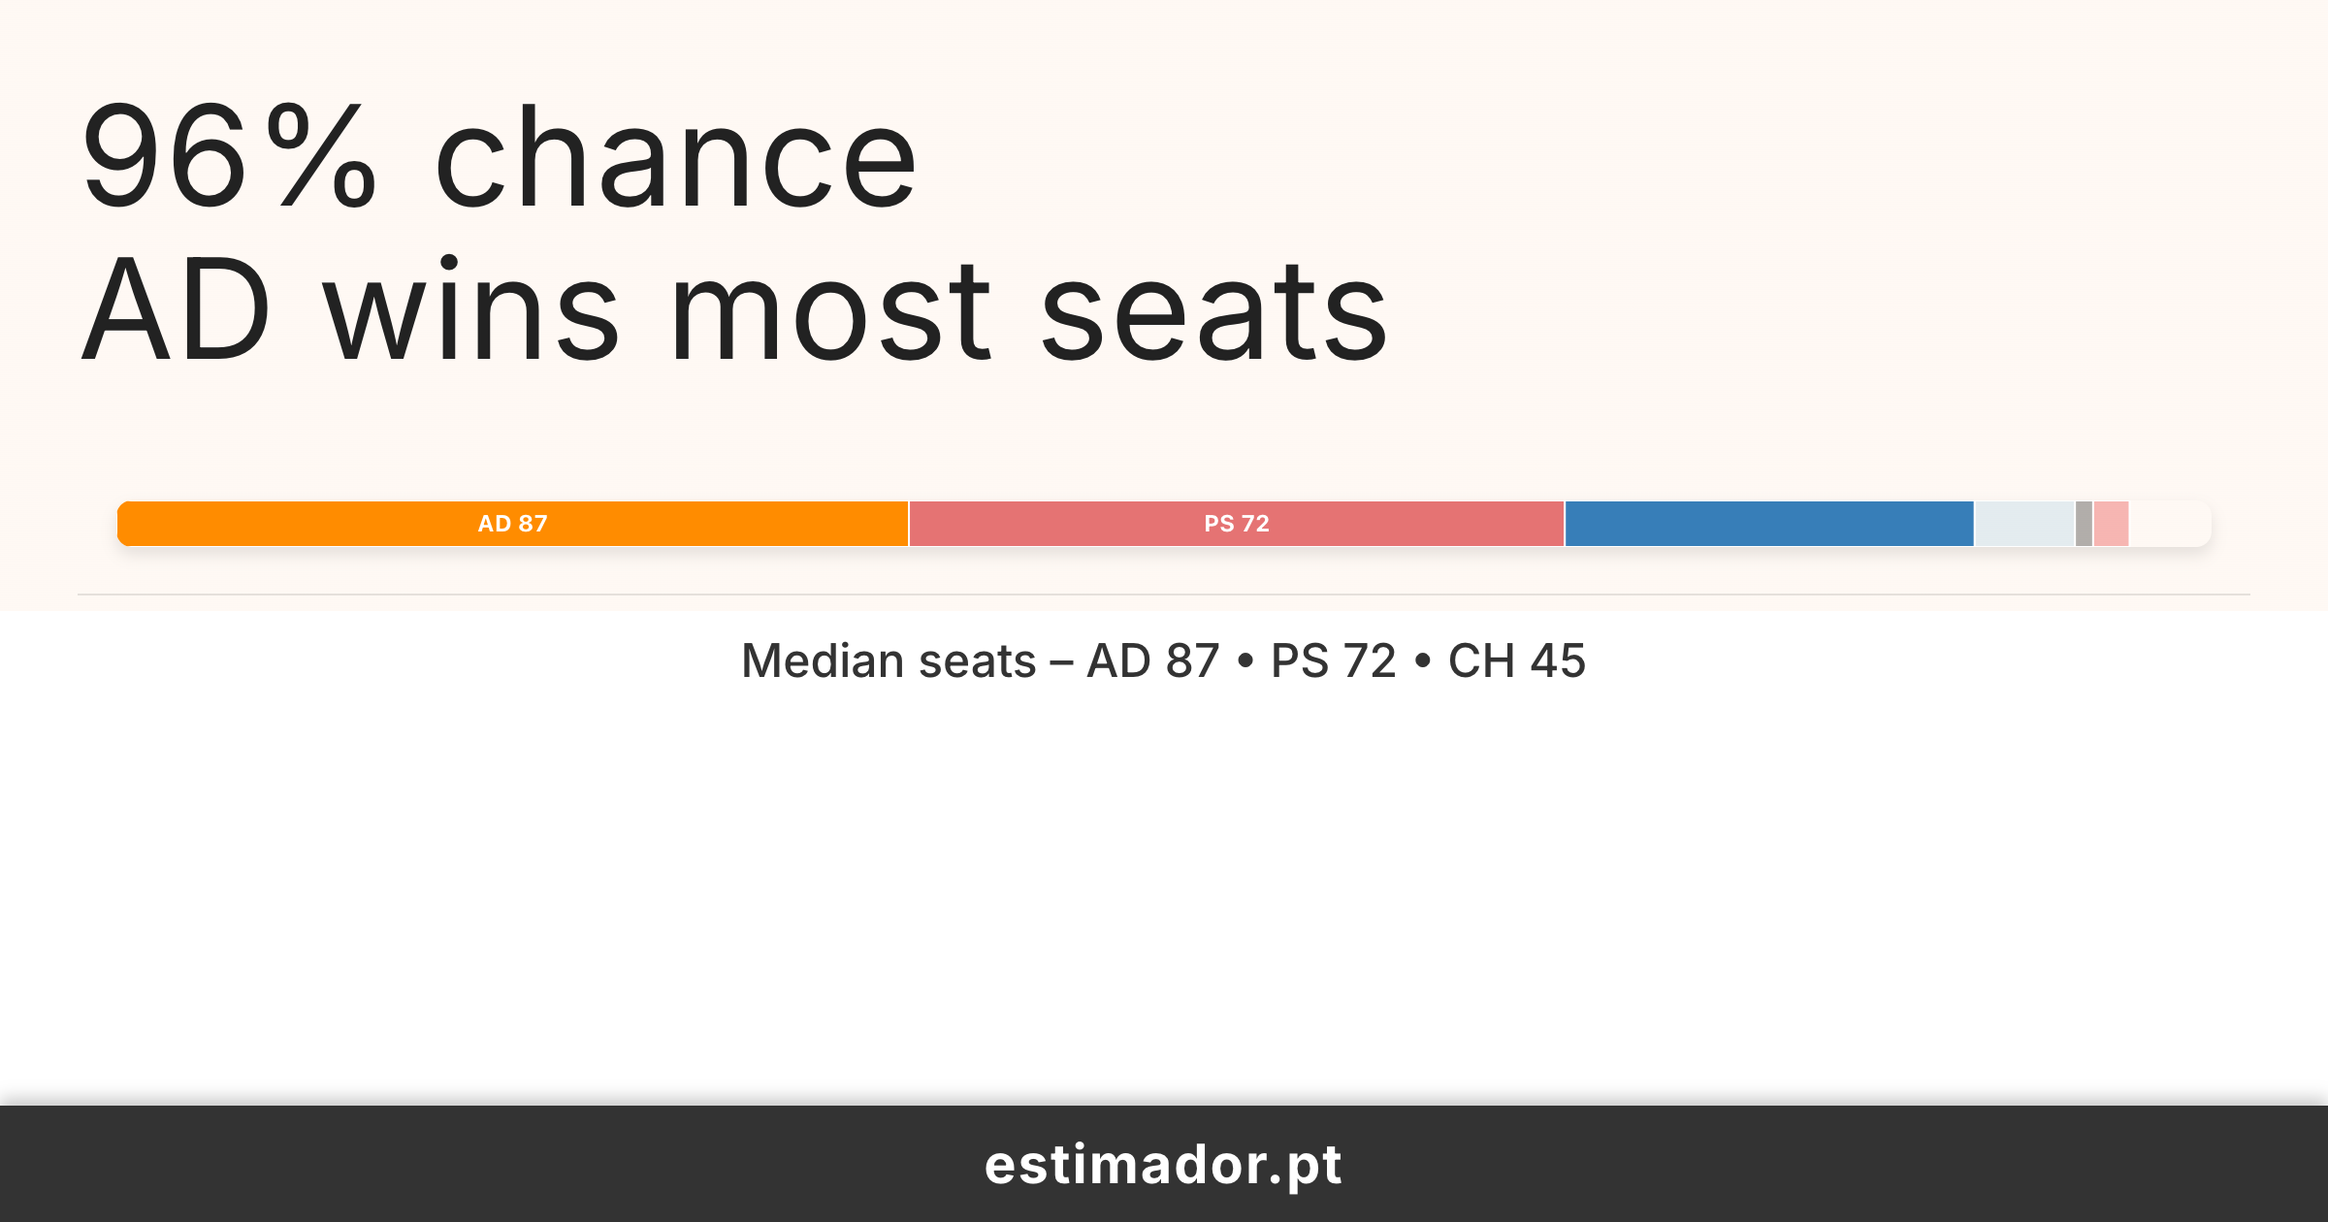
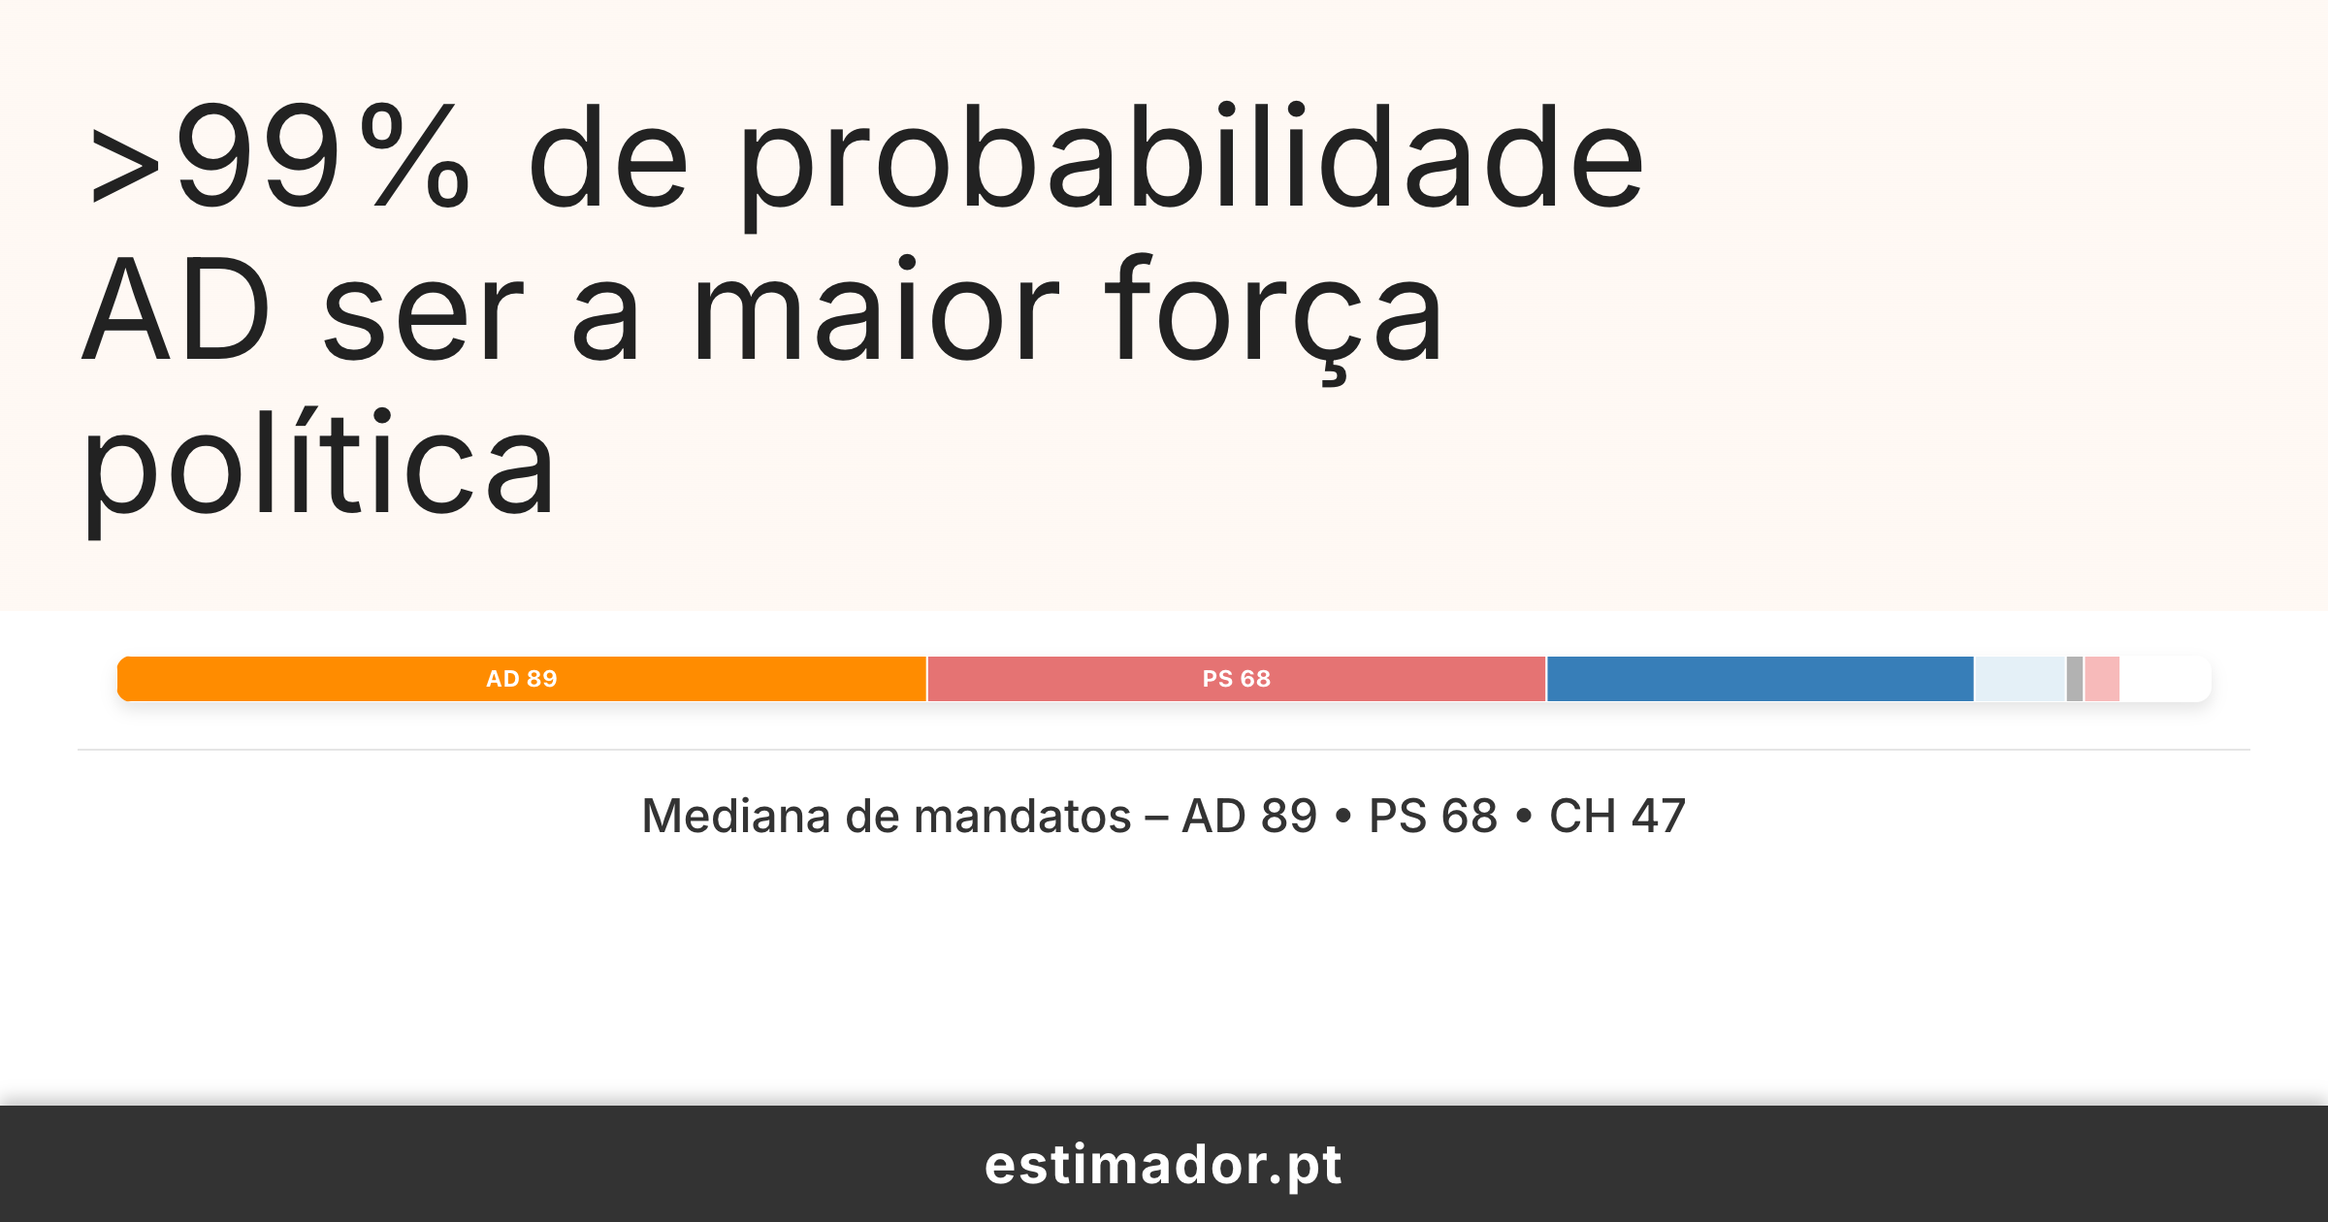
Update Open Graph image generation and localization support
- Modified the capture-og script to include Portuguese query parameters for improved language handling.
- Enhanced the OG page with dynamic language detection and localized strings for better user experience.
- Updated the methodology section in index.md to utilize a helper function for rendering raw HTML.
- Revised localization files for English and Portuguese to include new OG image specific strings.
- Updated the OG footer and subtitle formatting to reflect localized content.

diff --git a/src/locales/pt.js b/src/locales/pt.js
@@ -1,19 +1,19 @@
 export const T = {
     // Page Title
-    title: "Modelo de Previsão Eleitoral Português",
+    title: "Modelo de projeção de resultados das Eleições Legislativas",
   
     // Hero Banner Probabilities
-    heroLeftMajorityProb: "Prob. Maioria Esquerda",
+    heroLeftMajorityProb: "Prob. Maioria de Esquerda",
     heroLeftMajorityCondition: "(PS+BE+CDU+L ≥ 116)",
-    heroRightMajorityProb: "Prob. Maioria Direita",
+    heroRightMajorityProb: "Prob. Maioria de Direita (sem CH)",
     heroRightMajorityCondition: "(AD+IL ≥ 116)",
-    heroNoMajorityProb: "Prob. Sem Maioria de Bloco",
+    heroNoMajorityProb: "Prob. de não haver maioria",
     heroNoMajorityCondition: "(Nenhum bloco ≥ 116)",
-    heroAdMostSeatsProb: "Prob. AD Mais Deputados",
+    heroAdMostSeatsProb: "Prob. AD ser a maior força",
     heroAdMostSeatsCondition: "(AD > PS e AD > CH)",
-    heroPsMostSeatsProb: "Prob. PS Mais Deputados",
+    heroPsMostSeatsProb: "Prob. PS ser a maior força",
     heroPsMostSeatsCondition: "(PS > AD e PS > CH)",
-    heroChMostSeatsProb: "Prob. CH Mais Deputados",
+    heroChMostSeatsProb: "Prob. CH ser a maior força",
     heroChMostSeatsCondition: "(CH > AD e CH > PS)",
   
     // Methodology Section
@@ -204,8 +204,15 @@ export const T = {
     heatstripLegendMax: "50% Virar",
 
     // Contested Heatmap
-    heatmapNoContestedData: "Não existem dados de assentos disputados para o mapa de calor.",
-    heatmapNoSeats: "Nenhum assento encontrado para o mapa de calor após filtragem/ordenação.",
-    heatmapTitle: "Mapa de Calor de Assentos Disputados (Probabilidade de Virar)",
-    heatmapTooltip: "Distrito: {district}, Assento: {rank}, Prob. de Virar: {probability}%"
+    heatmapNoContestedData: "Não existem dados de mandatos disputados para o heatmap.",
+    heatmapNoSeats: "Nenhum mandato disputado encontrado para o heatmap após filtragem/ordenação.",
+    heatmapTitle: "Heatmap de Mandatos Disputados (Probabilidade de Virar)",
+    heatmapTooltip: "Distrito: {district}, Mandato: {rank}, Prob. de Virar: {probability}%",
+
+    // OG Image specific
+    ogHeroStatChance: "% de probabilidade",
+    ogHeroStatCondition: "AD ser a maior força política",
+    ogSubtitlePrefix: "Mediana de mandatos –",
+    ogSubtitlePartySeat: "{party} {seats}", // Party names AD, PS, CH usually not translated here
+    ogFooter: "estimador.pt"
   };

diff --git a/src/locales/en.js b/src/locales/en.js
@@ -207,5 +207,12 @@ export const T = {
   heatmapNoContestedData: "No contested seat data available for heatmap.",
   heatmapNoSeats: "No seats found for heatmap after filtering/sorting.",
   heatmapTitle: "Contested Seats Heatmap (Flip Probability)",
-  heatmapTooltip: "District: {district}, Seat: {rank}, Flip Prob: {probability}%"
+  heatmapTooltip: "District: {district}, Seat: {rank}, Flip Prob: {probability}%",
+
+  // OG Image specific
+  ogHeroStatChance: "% chance",
+  ogHeroStatCondition: "AD wins most seats",
+  ogSubtitlePrefix: "Median seats –",
+  ogSubtitlePartySeat: "{party} {seats}",
+  ogFooter: "estimador.pt"
 }; 

diff --git a/src/index.md b/src/index.md
@@ -13,11 +13,18 @@ import { T as ptStrings } from "./locales/pt.js";
 
 // Language detection logic
 const preferredLang = (() => {
-  if (typeof navigator !== "undefined") {
-    const browserLang = navigator.language.split('-')[0];
-    if (browserLang === 'pt') return 'pt';
+  if (typeof window !== "undefined") { // Ensure window context for URLSearchParams and navigator
+    const params = new URLSearchParams(window.location.search);
+    const langParam = params.get('lang');
+    if (langParam === 'pt' || langParam === 'en') {
+      return langParam;
+    }
+    if (typeof navigator !== "undefined" && navigator.language) {
+      const browserLang = navigator.language.split('-')[0];
+      if (browserLang === 'pt') return 'pt';
+    }
   }
-  return 'en'; // Default to English
+  return 'pt'; // Default to Portuguese
 })();
 
 // Define globally accessible variables for this page context
@@ -168,113 +175,121 @@ console.log("[index.md] Calculated latestTrends:", JSON.stringify(latestTrends))
 // REMOVE State for Methodology visibility
 // let methodologyVisible = false;
 
+// Helper function to treat a string as raw HTML for HTL
+function makeRaw(htmlString) {
+  if (typeof document !== "undefined") {
+    return document.createRange().createContextualFragment(htmlString);
+  }
+  return htmlString; // Fallback for non-browser environments (though unlikely here)
+}
+
 // Placeholder for methodology content (replace with actual markdown/html if available)
 const methodologyContent = html`
     <div class="card p-4"> 
-        <h2>${strings.methodologyTitle}</h2>
-        <p>${strings.methodologyP1}</p>
+        <h2>${makeRaw(strings.methodologyTitle)}</h2>
+        <p>${makeRaw(strings.methodologyP1)}</p>
         
-        <h4>${strings.methodologyH4_1}</h4>
-        <p>${strings.methodologyP2}</p>
-        <p>${strings.methodologyP3}</p>
+        <h4>${makeRaw(strings.methodologyH4_1)}</h4>
+        <p>${makeRaw(strings.methodologyP2)}</p>
+        <p>${makeRaw(strings.methodologyP3)}</p>
         <ol>
-            <li>${strings.methodologyLi1_1}</li>
-            <li>${strings.methodologyLi1_2}</li>
-            <li>${strings.methodologyLi1_3}</li>
-            <li>${strings.methodologyLi1_4}</li>
+            <li>${makeRaw(strings.methodologyLi1_1)}</li>
+            <li>${makeRaw(strings.methodologyLi1_2)}</li>
+            <li>${makeRaw(strings.methodologyLi1_3)}</li>
+            <li>${makeRaw(strings.methodologyLi1_4)}</li>
         </ol>
-        <p>${strings.methodologyP4}</p>
+        <p>${makeRaw(strings.methodologyP4)}</p>
 
-        <h4>${strings.methodologyH4_2}</h4>
-        <p>${strings.methodologyP5}</p>
+        <h4>${makeRaw(strings.methodologyH4_2)}</h4>
+        <p>${makeRaw(strings.methodologyP5)}</p>
         <ol>
-            <li>${strings.methodologyLi2_1}</li>
-            <li>${strings.methodologyLi2_2}</li>
-            <li>${strings.methodologyLi2_3}</li>
-            <li>${strings.methodologyLi2_4}</li>
-            <li>${strings.methodologyLi2_5}</li>
+            <li>${makeRaw(strings.methodologyLi2_1)}</li>
+            <li>${makeRaw(strings.methodologyLi2_2)}</li>
+            <li>${makeRaw(strings.methodologyLi2_3)}</li>
+            <li>${makeRaw(strings.methodologyLi2_4)}</li>
+            <li>${makeRaw(strings.methodologyLi2_5)}</li>
         </ol>
-        <p>${strings.methodologyP6}</p>
-        <p>${strings.methodologyP7}</p>
+        <p>${makeRaw(strings.methodologyP6)}</p>
+        <p>${makeRaw(strings.methodologyP7)}</p>
 
-        <h4>${strings.methodologyH4_3}</h4>
-        <p>${strings.methodologyP8}</p>
+        <h4>${makeRaw(strings.methodologyH4_3)}</h4>
+        <p>${makeRaw(strings.methodologyP8)}</p>
         <ul>
-            <li>${strings.methodologyLi3_1}</li>
-            <li>${strings.methodologyLi3_2}</li>
-            <li>${strings.methodologyLi3_3}</li>
-            <li>${strings.methodologyLi3_4}</li>
-            <li>${strings.methodologyLi3_5}</li>
+            <li>${makeRaw(strings.methodologyLi3_1)}</li>
+            <li>${makeRaw(strings.methodologyLi3_2)}</li>
+            <li>${makeRaw(strings.methodologyLi3_3)}</li>
+            <li>${makeRaw(strings.methodologyLi3_4)}</li>
+            <li>${makeRaw(strings.methodologyLi3_5)}</li>
         </ul>
-        <p>${strings.methodologyP9}</p>
+        <p>${makeRaw(strings.methodologyP9)}</p>
 
-        <h4>${strings.methodologyH4_4}</h4>
-        <h5>${strings.methodologyH5_1}</h5>
-        <p>${strings.methodologyP10}</p>
-        <h5>${strings.methodologyH5_2}</h5>
-        <p>${strings.methodologyP11}</p>
-        <h5>${strings.methodologyH5_3}</h5>
-        <p>${strings.methodologyP12}</p>
-        <p>${strings.methodologyP13}</p>
-        <h5>${strings.methodologyH5_4}</h5>
-        <p>${strings.methodologyP14}</p>
-        <h5>${strings.methodologyH5_5}</h5>
-        <p>${strings.methodologyP15}</p>
-        <p>${strings.methodologyP16}</p>
-        <h5>${strings.methodologyH5_6}</h5>
-        <p>${strings.methodologyP17}</p>
-        <p>${strings.methodologyP18}</p>
-        <p>${strings.methodologyP19}</p>
+        <h4>${makeRaw(strings.methodologyH4_4)}</h4>
+        <h5>${makeRaw(strings.methodologyH5_1)}</h5>
+        <p>${makeRaw(strings.methodologyP10)}</p>
+        <h5>${makeRaw(strings.methodologyH5_2)}</h5>
+        <p>${makeRaw(strings.methodologyP11)}</p>
+        <h5>${makeRaw(strings.methodologyH5_3)}</h5>
+        <p>${makeRaw(strings.methodologyP12)}</p>
+        <p>${makeRaw(strings.methodologyP13)}</p>
+        <h5>${makeRaw(strings.methodologyH5_4)}</h5>
+        <p>${makeRaw(strings.methodologyP14)}</p>
+        <h5>${makeRaw(strings.methodologyH5_5)}</h5>
+        <p>${makeRaw(strings.methodologyP15)}</p>
+        <p>${makeRaw(strings.methodologyP16)}</p>
+        <h5>${makeRaw(strings.methodologyH5_6)}</h5>
+        <p>${makeRaw(strings.methodologyP17)}</p>
+        <p>${makeRaw(strings.methodologyP18)}</p>
+        <p>${makeRaw(strings.methodologyP19)}</p>
 
-        <h4>${strings.methodologyH4_5}</h4>
-        <h5>${strings.methodologyH5_7}</h5>
-        <p>${strings.methodologyP20}</p>
-        <h5>${strings.methodologyH5_8}</h5>
-        <p>${strings.methodologyP21}</p>
-        <h5>${strings.methodologyH5_9}</h5>
-        <p>${strings.methodologyP22}</p>
-        <h5>${strings.methodologyH5_10}</h5>
-        <p>${strings.methodologyP23}</p>
-        <ul><li>${strings.methodologyLi4_1}</li>
-        <li>${strings.methodologyLi4_2}</li></ul>
-        <h5>${strings.methodologyH5_11}</h5>
-        <p>${strings.methodologyP24}</p>
+        <h4>${makeRaw(strings.methodologyH4_5)}</h4>
+        <h5>${makeRaw(strings.methodologyH5_7)}</h5>
+        <p>${makeRaw(strings.methodologyP20)}</p>
+        <h5>${makeRaw(strings.methodologyH5_8)}</h5>
+        <p>${makeRaw(strings.methodologyP21)}</p>
+        <h5>${makeRaw(strings.methodologyH5_9)}</h5>
+        <p>${makeRaw(strings.methodologyP22)}</p>
+        <h5>${makeRaw(strings.methodologyH5_10)}</h5>
+        <p>${makeRaw(strings.methodologyP23)}</p>
+        <ul><li>${makeRaw(strings.methodologyLi4_1)}</li>
+        <li>${makeRaw(strings.methodologyLi4_2)}</li></ul>
+        <h5>${makeRaw(strings.methodologyH5_11)}</h5>
+        <p>${makeRaw(strings.methodologyP24)}</p>
         
-        <h4>${strings.methodologyH4_6}</h4>
-        <p>${strings.methodologyP25}</p>
+        <h4>${makeRaw(strings.methodologyH4_6)}</h4>
+        <p>${makeRaw(strings.methodologyP25)}</p>
         <ol>
-            <li>${strings.methodologyLi5_1}</li>
-            <li>${strings.methodologyLi5_2}</li>
-            <li>${strings.methodologyLi5_3}</li>
-            <li>${strings.methodologyLi5_4}</li>
-            <li>${strings.methodologyLi5_5}</li>
+            <li>${makeRaw(strings.methodologyLi5_1)}</li>
+            <li>${makeRaw(strings.methodologyLi5_2)}</li>
+            <li>${makeRaw(strings.methodologyLi5_3)}</li>
+            <li>${makeRaw(strings.methodologyLi5_4)}</li>
+            <li>${makeRaw(strings.methodologyLi5_5)}</li>
         </ol>
-        <p>${strings.methodologyP26}</p>
-        <h5>${strings.methodologyH5_12}</h5>
-        <p>${strings.methodologyP27}</p>
-        <p>${strings.methodologyP28}</p>
+        <p>${makeRaw(strings.methodologyP26)}</p>
+        <h5>${makeRaw(strings.methodologyH5_12)}</h5>
+        <p>${makeRaw(strings.methodologyP27)}</p>
+        <p>${makeRaw(strings.methodologyP28)}</p>
         <ol>
-            <li>${strings.methodologyLi6_1}</li>
-            <li>${strings.methodologyLi6_2}</li>
+            <li>${makeRaw(strings.methodologyLi6_1)}</li>
+            <li>${makeRaw(strings.methodologyLi6_2)}</li>
         </ol>
-        <p>${strings.methodologyP29}</p>
-        <h5>${strings.methodologyH5_13}</h5>
-        <p>${strings.methodologyP30}</p>
+        <p>${makeRaw(strings.methodologyP29)}</p>
+        <h5>${makeRaw(strings.methodologyH5_13)}</h5>
+        <p>${makeRaw(strings.methodologyP30)}</p>
         
-        <h4>${strings.methodologyH4_7}</h4>
-        <p>${strings.methodologyP31}</p>
+        <h4>${makeRaw(strings.methodologyH4_7)}</h4>
+        <p>${makeRaw(strings.methodologyP31)}</p>
         <ol>
-            <li>${strings.methodologyLi7_1}</li>
-            <li>${strings.methodologyLi7_2}</li>
-            <li>${strings.methodologyLi7_3}</li>
+            <li>${makeRaw(strings.methodologyLi7_1)}</li>
+            <li>${makeRaw(strings.methodologyLi7_2)}</li>
+            <li>${makeRaw(strings.methodologyLi7_3)}</li>
         </ol>
-        <p>${strings.methodologyP32}</p>
+        <p>${makeRaw(strings.methodologyP32)}</p>
         
-        <p>${strings.methodologyP33_sources}</p>
+        <p>${makeRaw(strings.methodologyP33_sources)}</p>
         <ul>
-            <li>${strings.methodologyLi8_1}</li>
-            <li>${strings.methodologyLi8_2}</li>
-            <li>${strings.methodologyLi8_3}</li>
+            <li>${makeRaw(strings.methodologyLi8_1)}</li>
+            <li>${makeRaw(strings.methodologyLi8_2)}</li>
+            <li>${makeRaw(strings.methodologyLi8_3)}</li>
         </ul>
     </div>
 `;

diff --git a/src/pages/og.md b/src/pages/og.md
@@ -3,6 +3,39 @@ title: "/og"
 layout: null
 ---
 
+```js
+// --- LOCALE SETUP ---
+// Import translations
+import { T as enStrings } from "../locales/en.js";
+import { T as ptStrings } from "../locales/pt.js";
+
+// Language detection logic (adapted for OG page context)
+const preferredLang = (() => {
+  // Check for URL parameter first (assuming it might be passed to the OG rendering endpoint)
+  if (typeof URLSearchParams !== "undefined" && typeof window !== "undefined" && window.location && window.location.search) {
+    try {
+      const params = new URLSearchParams(window.location.search);
+      const langParam = params.get('lang');
+      if (langParam === 'pt' || langParam === 'en') {
+        return langParam;
+      }
+    } catch (e) {
+      console.error("Error parsing URL params for lang in og.md:", e);
+    }
+  }
+  // Fallback to a global variable if set by a parent context (less likely for direct /og call)
+  if (typeof globalThis !== 'undefined' && globalThis.currentLang && (globalThis.currentLang === 'pt' || globalThis.currentLang === 'en')) {
+      return globalThis.currentLang;
+  }
+  // Default to Portuguese if no other clues
+  return 'pt'; 
+})();
+
+const currentLang = preferredLang;
+const strings = currentLang === 'pt' ? ptStrings : enStrings;
+// --- END LOCALE SETUP ---
+```
+
 <style>
   /* Import Inter font */
   @import url('https://fonts.googleapis.com/css2?family=Inter:wght@400;500;700&display=swap'); /* Added 500 weight */
@@ -150,6 +183,14 @@ const totalSeats = 230;
 // A. Headline Data
 const adMostSeatsProb = calculatePartyMostSeatsProbability(allSeatSimulations, 'AD', ['PS', 'CH']);
 
+// Helper function to format OG hero probability
+function formatOgHeroProb(prob) {
+  const percent = prob * 100;
+  if (percent < 1) return "<1";
+  if (percent > 99) return ">99";
+  return percent.toFixed(0);
+}
+
 // D. Calculate Party Median Seats
 const partyMedians = {};
 const plotPartyOrder = ["AD","PS","CH","IL","BE","CDU","OTH"]; // Specific order for the plot/bar
@@ -212,7 +253,11 @@ const stackedBarPlot = Plot.plot({
 
 // 5. Prepare Subtitle Text
 const medianCH = Math.round(partyMedians['CH']);
-const subtitleText = `Median seats – AD ${Math.round(partyMedians['AD'])} • PS ${Math.round(partyMedians['PS'])} • CH ${medianCH}`;
+const medianAD = Math.round(partyMedians['AD']);
+const medianPS = Math.round(partyMedians['PS']);
+
+// Construct subtitle using locale strings
+const subtitleText = `${strings.ogSubtitlePrefix} ${strings.ogSubtitlePartySeat.replace("{party}", "AD").replace("{seats}", medianAD)} \u2022 ${strings.ogSubtitlePartySeat.replace("{party}", "PS").replace("{seats}", medianPS)} \u2022 ${strings.ogSubtitlePartySeat.replace("{party}", "CH").replace("{seats}", medianCH)}`;
 
 ```
 
@@ -221,7 +266,7 @@ const subtitleText = `Median seats – AD ${Math.round(partyMedians['AD'])} • 
 
   <!-- 2. Hero Headline -->
   <div id="hero-stat">
-    ${html`${(adMostSeatsProb * 100).toFixed(0)}% chance<br>AD wins most seats`}
+    ${html`${formatOgHeroProb(adMostSeatsProb)}${strings.ogHeroStatChance}<br>${strings.ogHeroStatCondition}`}
   </div>
 
   <!-- 3. Bar Chart Outer Container (for centering/spacing) -->
@@ -244,5 +289,5 @@ const subtitleText = `Median seats – AD ${Math.round(partyMedians['AD'])} • 
 
 <!-- ADD New Footer Element (Outside #og-content, inside main) -->
 <footer id="og-footer">
-  <span>estimador.pt</span>
+  <span>${strings.ogFooter}</span>
 </footer> 
